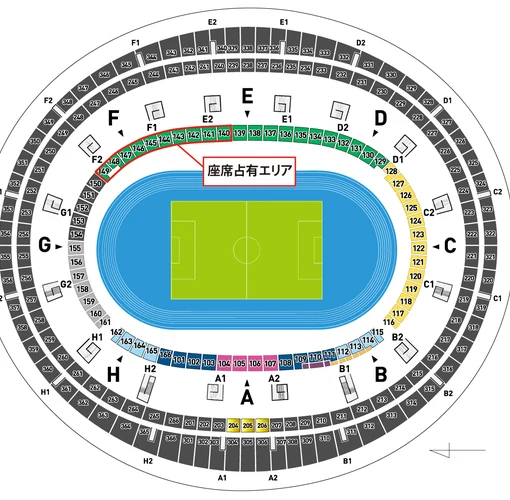
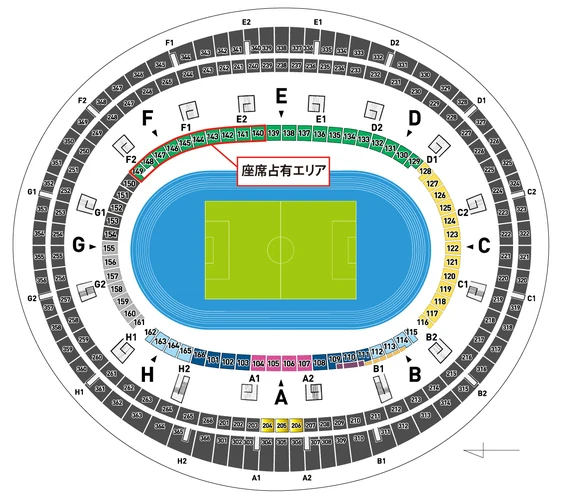
フィールドトリップデー一般向けLP：座席図をタップで拡大表示・切り抜きを図の範囲に合わせて修正

diff --git a/fieldtrip/fans/index.html b/fieldtrip/fans/index.html
@@ -598,6 +598,16 @@ p { margin: 0; }
 .notice li p { font-size: 14.5px; color: var(--ink-2); line-height: 1.8; margin-top: 4px; }
 .seatmap { margin: 0; background: var(--card); border: 1px solid var(--line); border-radius: 12px; padding: 10px; }
 .seatmap img { display: block; width: 100%; height: auto; border-radius: 6px; }
+.seatmap .zoom { position: relative; display: block; width: 100%; padding: 0; border: 0; background: none; cursor: zoom-in; border-radius: 6px; }
+.seatmap .zoom-hint { position: absolute; right: 10px; bottom: 10px; font-size: 12px; font-weight: 700; color: #fff; background: rgba(4, 34, 66, .82); border-radius: 999px; padding: 5px 12px 5px 30px; }
+.seatmap .zoom-hint::before { content: ""; position: absolute; left: 11px; top: 50%; width: 9px; height: 9px; margin-top: -6px; border: 2px solid #fff; border-radius: 50%; }
+.seatmap .zoom-hint::after { content: ""; position: absolute; left: 20px; top: 50%; width: 2px; height: 6px; margin-top: 1px; background: #fff; transform: rotate(-45deg); }
+.lb { border: 0; padding: 0; margin: 0; width: 100vw; height: 100dvh; max-width: none; max-height: none; background: rgba(4, 16, 30, .92); }
+.lb::backdrop { background: rgba(4, 16, 30, .92); }
+.lb[open] { display: flex; align-items: center; justify-content: center; }
+.lb img { display: block; width: auto; height: min(calc(100dvh - 110px), calc(100vw * 500 / 561)); max-width: 100vw; background: #fff; border-radius: 6px; }
+.lb .lb-close { position: fixed; top: calc(12px + env(safe-area-inset-top, 0px)); right: 12px; width: 44px; height: 44px; border-radius: 50%; border: 2px solid #fff; background: rgba(4, 34, 66, .9); color: #fff; font-size: 22px; line-height: 1; cursor: pointer; }
+.lb .lb-cap { position: fixed; left: 0; right: 0; bottom: calc(14px + env(safe-area-inset-bottom, 0px)); text-align: center; color: rgba(255,255,255,.85); font-size: 13px; }
 .seatmap figcaption { font-size: 12.5px; color: var(--ink-2); padding: 8px 6px 2px; line-height: 1.7; }
 @media (max-width: 880px) { .notice { grid-template-columns: minmax(0, 1fr); } }
 
@@ -877,7 +887,10 @@ p { margin: 0; }
           <li><h3>平日昼間の開催のため、座席の運用が一部異なります</h3><p>一部の座席の運用が、通常のホームゲームと異なります。</p></li>
         </ul>
         <figure class="seatmap">
-          <img src="../assets/img/seatmap-1021.webp" width="510" height="500" loading="lazy" decoding="async" alt="カンセキスタジアムとちぎの座席図。バックスタンドのF側からE側にかけての一部が、赤枠の「座席占有エリア」として示されている。">
+          <button class="zoom" type="button" data-zoom="../assets/img/seatmap-1021.webp" aria-label="座席図を拡大して見る">
+            <img src="../assets/img/seatmap-1021.webp" width="561" height="500" loading="lazy" decoding="async" alt="カンセキスタジアムとちぎの座席図。バックスタンドのF側からE側にかけての一部が、赤枠の「座席占有エリア」として示されている。">
+            <span class="zoom-hint" aria-hidden="true">タップで拡大</span>
+          </button>
           <figcaption>赤枠が団体観戦エリア（座席占有エリア）です。</figcaption>
         </figure>
       </div>
@@ -946,6 +959,12 @@ p { margin: 0; }
     </div>
   </section>
 </main>
+
+<dialog class="lb" id="lightbox" aria-label="座席図（拡大）">
+  <img id="lbImg" src="" alt="カンセキスタジアムとちぎの座席図（拡大）。赤枠が団体観戦エリア（座席占有エリア）。">
+  <button class="lb-close" id="lbClose" type="button" aria-label="閉じる">×</button>
+  <p class="lb-cap">赤枠が団体観戦エリア（座席占有エリア）です。スマホは2本指で拡大できます。</p>
+</dialog>
 
 <footer class="foot">
   <div class="wrap">
@@ -1067,6 +1086,14 @@ function ftdMotion(stage, G) {
   btn.addEventListener('click', () => { userPaused = !userPaused; api.setPlaying(!userPaused); label(); });
   if (matchMedia('(prefers-reduced-motion: reduce)').matches) { api.setTime(10.6); userPaused = true; api.setPlaying(false); label(); }
   new IntersectionObserver(([e]) => { if (!userPaused) api.setPlaying(e.isIntersecting); }, { threshold: 0.05 }).observe(stage);
+  /* 座席図：タップで拡大表示。背景・×・Escで閉じる */
+  const lb = document.getElementById('lightbox'), lbImg = document.getElementById('lbImg');
+  document.querySelectorAll('[data-zoom]').forEach((b) => b.addEventListener('click', () => {
+    lbImg.src = b.dataset.zoom;
+    if (lb.showModal) lb.showModal(); else window.open(b.dataset.zoom, '_blank');
+  }));
+  document.getElementById('lbClose').addEventListener('click', () => lb.close());
+  lb.addEventListener('click', (e) => { if (e.target === lb) lb.close(); });
   /* サポートスタッフ募集は締切（10/14 23:59 日本時間）を過ぎたら自動で「終了」表示にする */
   if (Date.now() > Date.parse('2026-10-14T23:59:59+09:00')) document.getElementById('staffBox').classList.add('is-closed');
 })();
